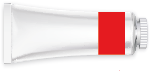
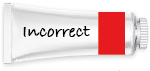
GUI ændringer

Changed region(s): [[0.1333, 0.3662, 0.6133, 0.5352]]

diff --git a/src/main/java/com/example/flashcardproject/FlashcardController.java b/src/main/java/com/example/flashcardproject/FlashcardController.java
@@ -6,12 +6,40 @@ import javafx.scene.control.Button;
 import javafx.scene.control.Label;
 import javafx.scene.image.Image;
 import javafx.scene.image.ImageView;
+import javafx.scene.layout.*;
 
 import java.net.MalformedURLException;
 import java.net.URL;
 import java.sql.SQLException;
 
 public class FlashcardController {
+
+    @FXML
+    private Label cardsInSetLabel;
+
+    @FXML
+    private Label cardsNotShownLabel;
+
+    @FXML
+    private Label almostCorrectLabel;
+
+    @FXML
+    private Label correctLabel;
+
+    @FXML
+    private Label incorrectLabel;
+
+    @FXML
+    private Label partiallyCorrectLabel;
+
+    @FXML
+    private Button finnishButton;
+
+    @FXML
+    private Button pauseButton;
+
+    @FXML
+    private Button restartButton;
 
     @FXML
     private Label artistLabel;
@@ -45,14 +73,101 @@ public class FlashcardController {
 
     @FXML
     private Button incorrectButton;
+    @FXML
+    private Button irrelevantButton;
 
-    private FlashcardDao flashcardDao;
+
 
     public FlashcardController() {
     }
 
     public void initialize() throws SQLException, MalformedURLException {
         showRandomFlashcard();
+
+        Background correctBackground = new Background(new BackgroundImage(
+                new Image(getClass().getResource("Correct.png").toExternalForm()),
+                BackgroundRepeat.NO_REPEAT,
+                BackgroundRepeat.NO_REPEAT,
+                BackgroundPosition.DEFAULT,
+                BackgroundSize.DEFAULT
+        ));
+        correctButton.setOpacity(0.0);
+        correctButton.setBackground(correctBackground);
+
+        Background AlmostCorrectBackground = new Background(new BackgroundImage(
+                new Image(getClass().getResource("AlmostCorrect.png").toExternalForm()),
+                BackgroundRepeat.NO_REPEAT,
+                BackgroundRepeat.NO_REPEAT,
+                BackgroundPosition.DEFAULT,
+                BackgroundSize.DEFAULT
+        ));
+        almostCorrectButton.setOpacity(0.0);
+        almostCorrectButton.setBackground(AlmostCorrectBackground);
+
+        Background partiallyCorrectBackground = new Background(new BackgroundImage(
+                new Image(getClass().getResource("PartiallyCorrect.png").toExternalForm()),
+                BackgroundRepeat.NO_REPEAT,
+                BackgroundRepeat.NO_REPEAT,
+                BackgroundPosition.DEFAULT,
+                BackgroundSize.DEFAULT
+        ));
+        partiallyCorrectButton.setOpacity(0.0);
+        partiallyCorrectButton.setBackground(partiallyCorrectBackground);
+
+        Background incorrectBackground = new Background(new BackgroundImage(
+                new Image(getClass().getResource("Incorrect.png").toExternalForm()),
+                BackgroundRepeat.NO_REPEAT,
+                BackgroundRepeat.NO_REPEAT,
+                BackgroundPosition.DEFAULT,
+                BackgroundSize.DEFAULT
+        ));
+        incorrectButton.setOpacity(0.0);
+        incorrectButton.setBackground(incorrectBackground);
+
+        Background irrelevantBackground = new Background(new BackgroundImage(
+                new Image(getClass().getResource("Irrelevant.png").toExternalForm()),
+                BackgroundRepeat.NO_REPEAT,
+                BackgroundRepeat.NO_REPEAT,
+                BackgroundPosition.DEFAULT,
+                BackgroundSize.DEFAULT
+        ));
+        irrelevantButton.setBackground(irrelevantBackground);
+
+        Background pauseBackground = new Background(new BackgroundImage(
+                new Image(getClass().getResource("Pause.png").toExternalForm()),
+                BackgroundRepeat.NO_REPEAT,
+                BackgroundRepeat.NO_REPEAT,
+                BackgroundPosition.DEFAULT,
+                BackgroundSize.DEFAULT
+        ));
+        pauseButton.setBackground(pauseBackground);
+
+        Background finnishBackground = new Background(new BackgroundImage(
+                new Image(getClass().getResource("Finnish.png").toExternalForm()),
+                BackgroundRepeat.NO_REPEAT,
+                BackgroundRepeat.NO_REPEAT,
+                BackgroundPosition.DEFAULT,
+                BackgroundSize.DEFAULT
+        ));
+        finnishButton.setBackground(finnishBackground);
+
+        Background restartBackground = new Background(new BackgroundImage(
+                new Image(getClass().getResource("Restart.png").toExternalForm()),
+                BackgroundRepeat.NO_REPEAT,
+                BackgroundRepeat.NO_REPEAT,
+                BackgroundPosition.DEFAULT,
+                BackgroundSize.DEFAULT
+        ));
+        restartButton.setBackground(restartBackground);
+
+        Background showAnswerBackground = new Background(new BackgroundImage(
+                new Image(getClass().getResource("ShowAnswer.png").toExternalForm()),
+                BackgroundRepeat.NO_REPEAT,
+                BackgroundRepeat.NO_REPEAT,
+                BackgroundPosition.DEFAULT,
+                BackgroundSize.DEFAULT
+        ));
+        showAnswerButton.setBackground(showAnswerBackground);
     }
 
 
@@ -89,10 +204,7 @@ public class FlashcardController {
             periodLabel.setText(randomFlashcard.getPeriod());
             periodLabel.setOpacity(0.0);
 
-            correctButton.setOpacity(0.0);
-            almostCorrectButton.setOpacity(0.0);
-            partiallyCorrectButton.setOpacity(0.0);
-            incorrectButton.setOpacity(0.0);
+
         } else {
             // Handle the case where there are no flashcards
             questionLabel.setText("No flashcards available");
@@ -105,6 +217,7 @@ public class FlashcardController {
 
     public void showAnswerButtonClicked(ActionEvent actionEvent) {
         showAnswerButton.setOpacity(0.0);
+        irrelevantButton.setOpacity(0.0);
 
         artistLabel.setOpacity(1.0);
         titleLabel.setOpacity(1.0);
@@ -127,5 +240,18 @@ public class FlashcardController {
     }
 
     public void correctButtonClicked(ActionEvent actionEvent) {
+    }
+
+    public void irrelevantButtonClicked(ActionEvent event) {
+
+    }
+
+    public void pauseButtonClicked(ActionEvent actionEvent) {
+    }
+
+    public void restartButtonClicked(ActionEvent actionEvent) {
+    }
+
+    public void FinnishButtonClicked(ActionEvent actionEvent) {
     }
 }
